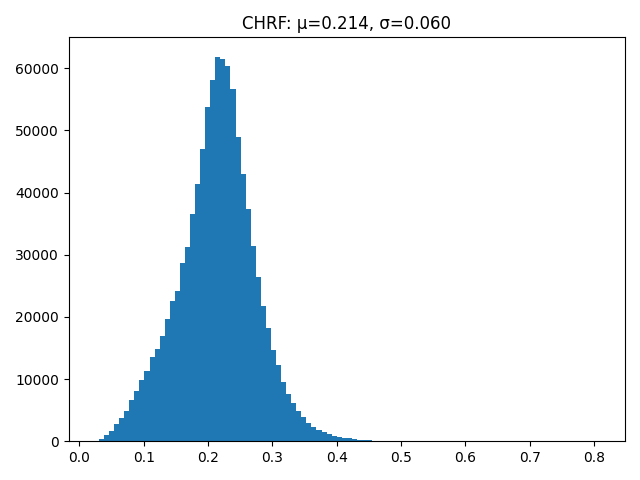
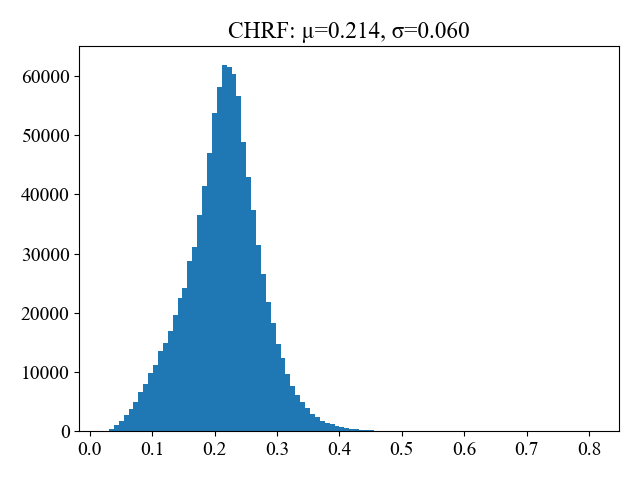
feat(graphs): create paper graphics

diff --git a/signwriting_evaluation/evaluation/closest_matches_table_latex.py b/signwriting_evaluation/evaluation/closest_matches_table_latex.py
@@ -1,0 +1,44 @@
+# pylint: disable=line-too-long, duplicate-code
+from pathlib import Path
+
+if __name__ == "__main__":
+    matches_dir = Path(__file__).parent.parent.parent / "assets" / "matches"
+
+    # LaTeX header rows
+    signs_header = ["&"]
+    metrics_header = ["Rank"]
+
+    # LaTeX body rows
+    rows = [[str(i + 1)] for i in range(10)]  # 10 rows
+
+    for sign_dir in matches_dir.iterdir():
+        # pylint: disable=invalid-name
+        colspan = 0
+        for metric_dir in sign_dir.iterdir():
+            if metric_dir.is_dir():
+                colspan += 1
+                metrics_header.append(f"\\texttt{{{metric_dir.name}}}")
+                for i in range(10):
+                    rows[i].append(
+                        f"\\includegraphics[width=0.07\\textwidth]{{assets/matches/{sign_dir.name}/{metric_dir.name}/{i}.png}}"
+                    )
+        signs_header.append(
+            f"\\multicolumn{{{colspan}}}{{c|}}{{\\includegraphics[width=0.1\\textwidth]{{assets/matches/{sign_dir.name}/ref.png}}}}"
+        )
+
+    # Create LaTeX table
+    print("\\begin{table*}[ht]")
+    print("    \\centering")
+    print("    \\begin{tabular}{c|" + "c" * len(metrics_header) + "}")
+    print("        \\toprule")
+    print(f"        {' & '.join(signs_header)} \\\\")
+    print("        \\cmidrule{2-" + str(len(metrics_header) + 1) + "}")
+    print(f"        {' & '.join(metrics_header)} \\\\")
+    print("        \\midrule")
+    for row in rows:
+        print(f"        {' & '.join(row)} \\\\")
+    print("        \\bottomrule")
+    print("    \\end{tabular}")
+    print("    \\caption{Top 10 nearest neighbors for selected signs using different evaluation metrics. The reference signs are shown at the top, and the retrieved signs are displayed in order of decreasing similarity score from left to right.}")
+    print("    \\label{tab:nearest_neighbors}")
+    print("\\end{table*}")

diff --git a/signwriting_evaluation/metrics/clip.py b/signwriting_evaluation/metrics/clip.py
@@ -7,7 +7,6 @@ import torch
 from PIL import Image
 from signwriting.visualizer.visualize import signwriting_to_image
 from tqdm import tqdm
-from transformers import AutoModel, AutoProcessor
 
 from signwriting_evaluation.metrics.base import SignWritingMetric
 
@@ -51,9 +50,10 @@ class SignWritingCLIPScore(SignWritingMetric):
                  device=None):
         super().__init__(name="CLIPScore")
 
-        # Init CLIP model
-        self.model = AutoModel.from_pretrained(model_id)
+        # Init CLIP model pylint: disable=import-outside-toplevel
+        from transformers import AutoModel, AutoProcessor
         self.processor = AutoProcessor.from_pretrained(model_id)
+        self.model = AutoModel.from_pretrained(model_id)
 
         # Init cache
         if cache_directory is None:

diff --git a/signwriting_evaluation/evaluation/closest_matches.py b/signwriting_evaluation/evaluation/closest_matches.py
@@ -14,6 +14,13 @@ CURRENT_DIR = Path(__file__).parent
 ASSETS_DIR = CURRENT_DIR.parent.parent / "assets"
 
 
+# Set the font to Times Roman
+plt.rcParams['font.family'] = 'Times New Roman'
+plt.rcParams['font.serif'] = ['Times New Roman'] + plt.rcParams['font.serif']
+# increase font size
+plt.rcParams.update({'font.size': 14})
+
+
 def load_signs(signs_file: Path):
     with open(signs_file, 'r', encoding='utf-8') as signs_f:
         signs = signs_f.read().splitlines()
@@ -78,6 +85,8 @@ def metrics_distribution(signs: list[str], metrics: list[SignWritingMetric]):
     plt.legend(loc="upper right")
     plt.tight_layout()
     plt.savefig(distribution_dir / "all.png")
+    plt.savefig(distribution_dir / "all.pdf")
+
     plt.close()
 
 

diff --git a/README.md b/README.md
@@ -22,7 +22,7 @@ the more effective the evaluation metric is in capturing the nuances of sign lan
 - [Tokenized BLEU](signwriting_evaluation/metrics/bleu.py) - BLEU score for tokenized SignWriting FSW strings.
 - [chrF](signwriting_evaluation/metrics/chrf.py) - chrF score for untokenized SignWriting FSW strings.
 - [CLIPScore](signwriting_evaluation/metrics/clipscore.py) - CLIPScore between SignWriting images. (Using the original CLIP model)
-- [Similarity](signwriting_evaluation/metrics/similarity.py) - symbol distance score for SignWriting FSW strings [(README)](signwriting_evaluation/metrics/similarity).
+- [Similarity](signwriting_evaluation/metrics/similarity.py) - symbol distance score for SignWriting FSW strings [(README)](signwriting_evaluation/metrics/similarity.md).
 
 ## Qualitative Evaluation
 
@@ -62,6 +62,17 @@ For each sign and metric, either the first match is incorrect, or there is a mor
 </tbody>
 </table>
 
+## Cite
+If you use our toolkit in your research or projects, please consider citing the work.
+
+```bib
+@misc{signwriting-evaluation2024,
+    title={SignWriting Evaluation: Metrics for Evaluating SignWriting Transcription and Translation Models},
+    author={Moryossef, Amit and Zilberman, Rotem and Langer, Ohad},
+    howpublished={\url{https://github.com/sign-language-processing/signwriting-evaluation}},
+    year={2024}
+}
+```
 
 ## References
 
